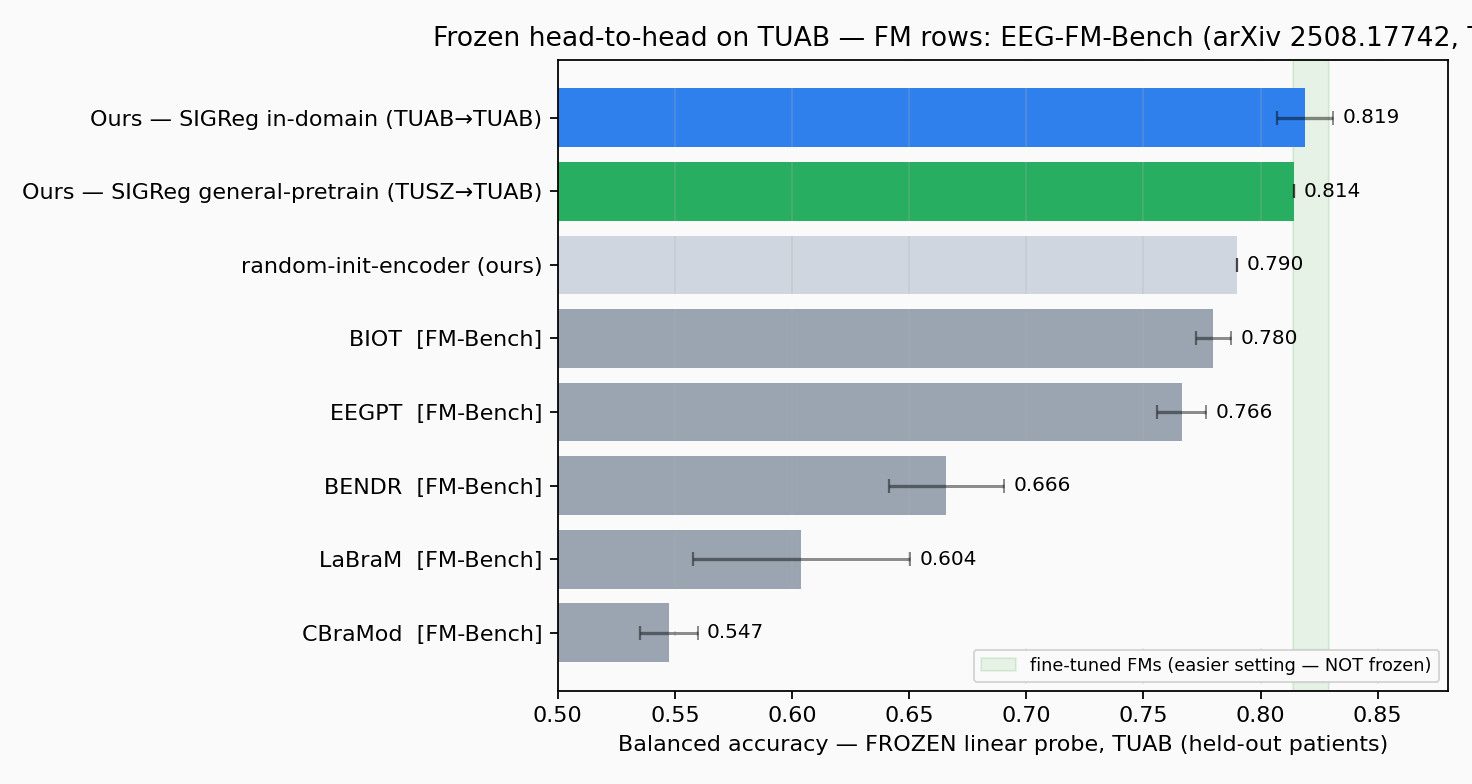
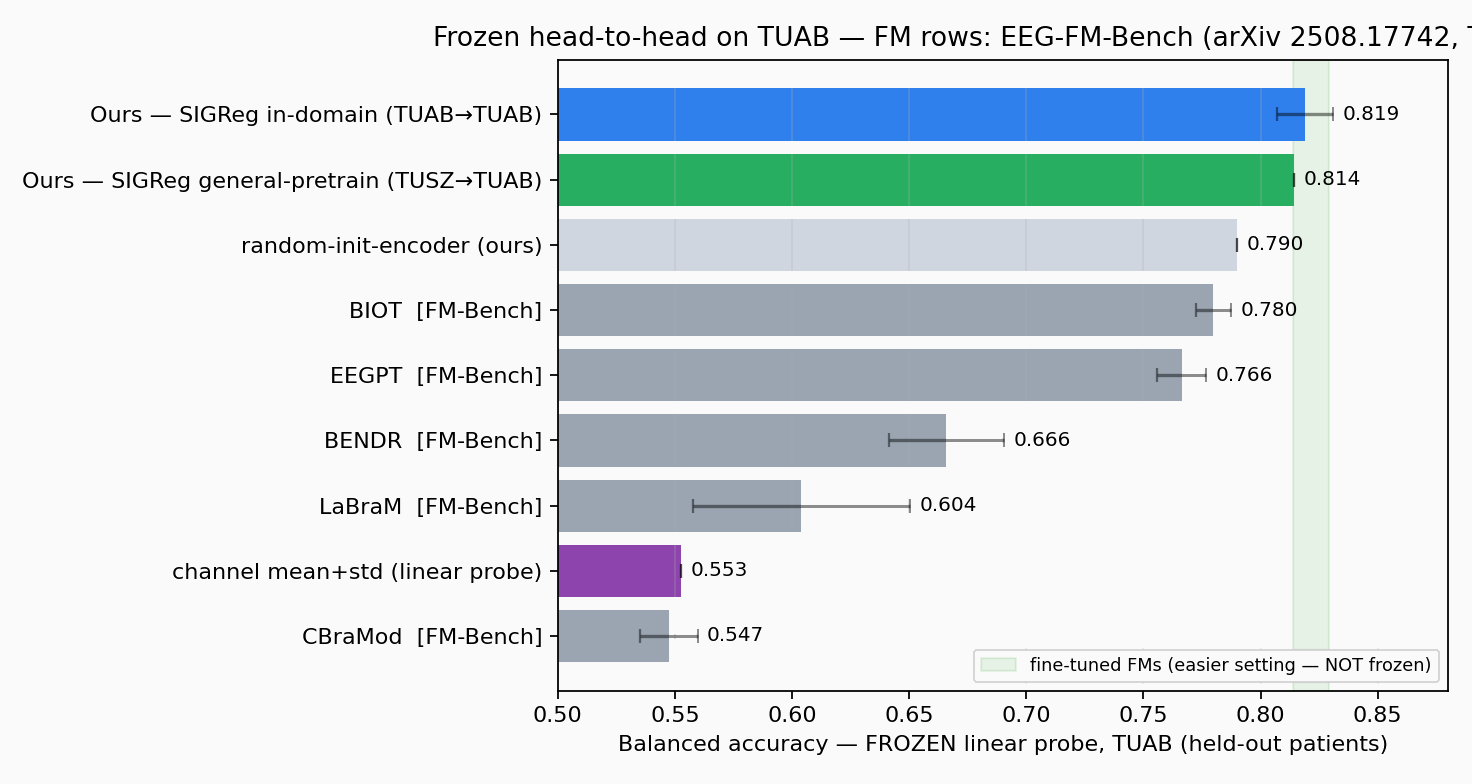
feat(eeg): add channel mean+std baseline bar to frozen head-to-head
Trivial per-channel [mean, std] -> linear probe (baseline_chanstats.py), measured on
TUAB (Dalia job 78143): 0.553 BA -- barely above chance, ~CBraMod frozen. Shows that
trivial per-channel statistics need structure to beat a collapsed frozen FM.

diff --git a/examples/eeg/frozen_headtohead.py b/examples/eeg/frozen_headtohead.py
@@ -19,6 +19,10 @@ import matplotlib.pyplot as plt  # noqa: E402
 
 # (label, balanced_acc, std, kind)   FM rows: EEG-FM-Bench Table 1 (frozen, TUAB)
 BARS = [
+    # Trivial classical baseline: per-channel [mean, std] (raw uV) -> StandardScaler +
+    # balanced LogReg (examples/eeg/baseline_chanstats.py). Measured on TUAB, Dalia job
+    # 78143: 0.553 BA -- barely above chance, ~CBraMod frozen. Deterministic -> no error bar.
+    ("channel mean+std (linear probe)", 0.5527, None, "baseline"),
     ("CBraMod  [FM-Bench]", 0.5473, 0.0124, "frozen_fm"),
     ("LaBraM  [FM-Bench]", 0.6040, 0.0464, "frozen_fm"),
     ("BENDR  [FM-Bench]", 0.6659, 0.0246, "frozen_fm"),
@@ -34,7 +38,8 @@ bars = sorted(BARS, key=lambda b: b[1])
 labels = [b[0] for b in bars]
 vals = [b[1] for b in bars]
 errs = [b[2] if b[2] else 0.0 for b in bars]
-cmap = {"ours": "#2f80ed", "ours_gen": "#27ae60", "frozen_fm": "#9aa5b1", "floor": "#cfd6df"}
+cmap = {"ours": "#2f80ed", "ours_gen": "#27ae60", "frozen_fm": "#9aa5b1", "floor": "#cfd6df",
+        "baseline": "#8e44ad"}
 colors = [cmap[b[3]] for b in bars]
 
 fig, ax = plt.subplots(figsize=(9.2, 4.9))